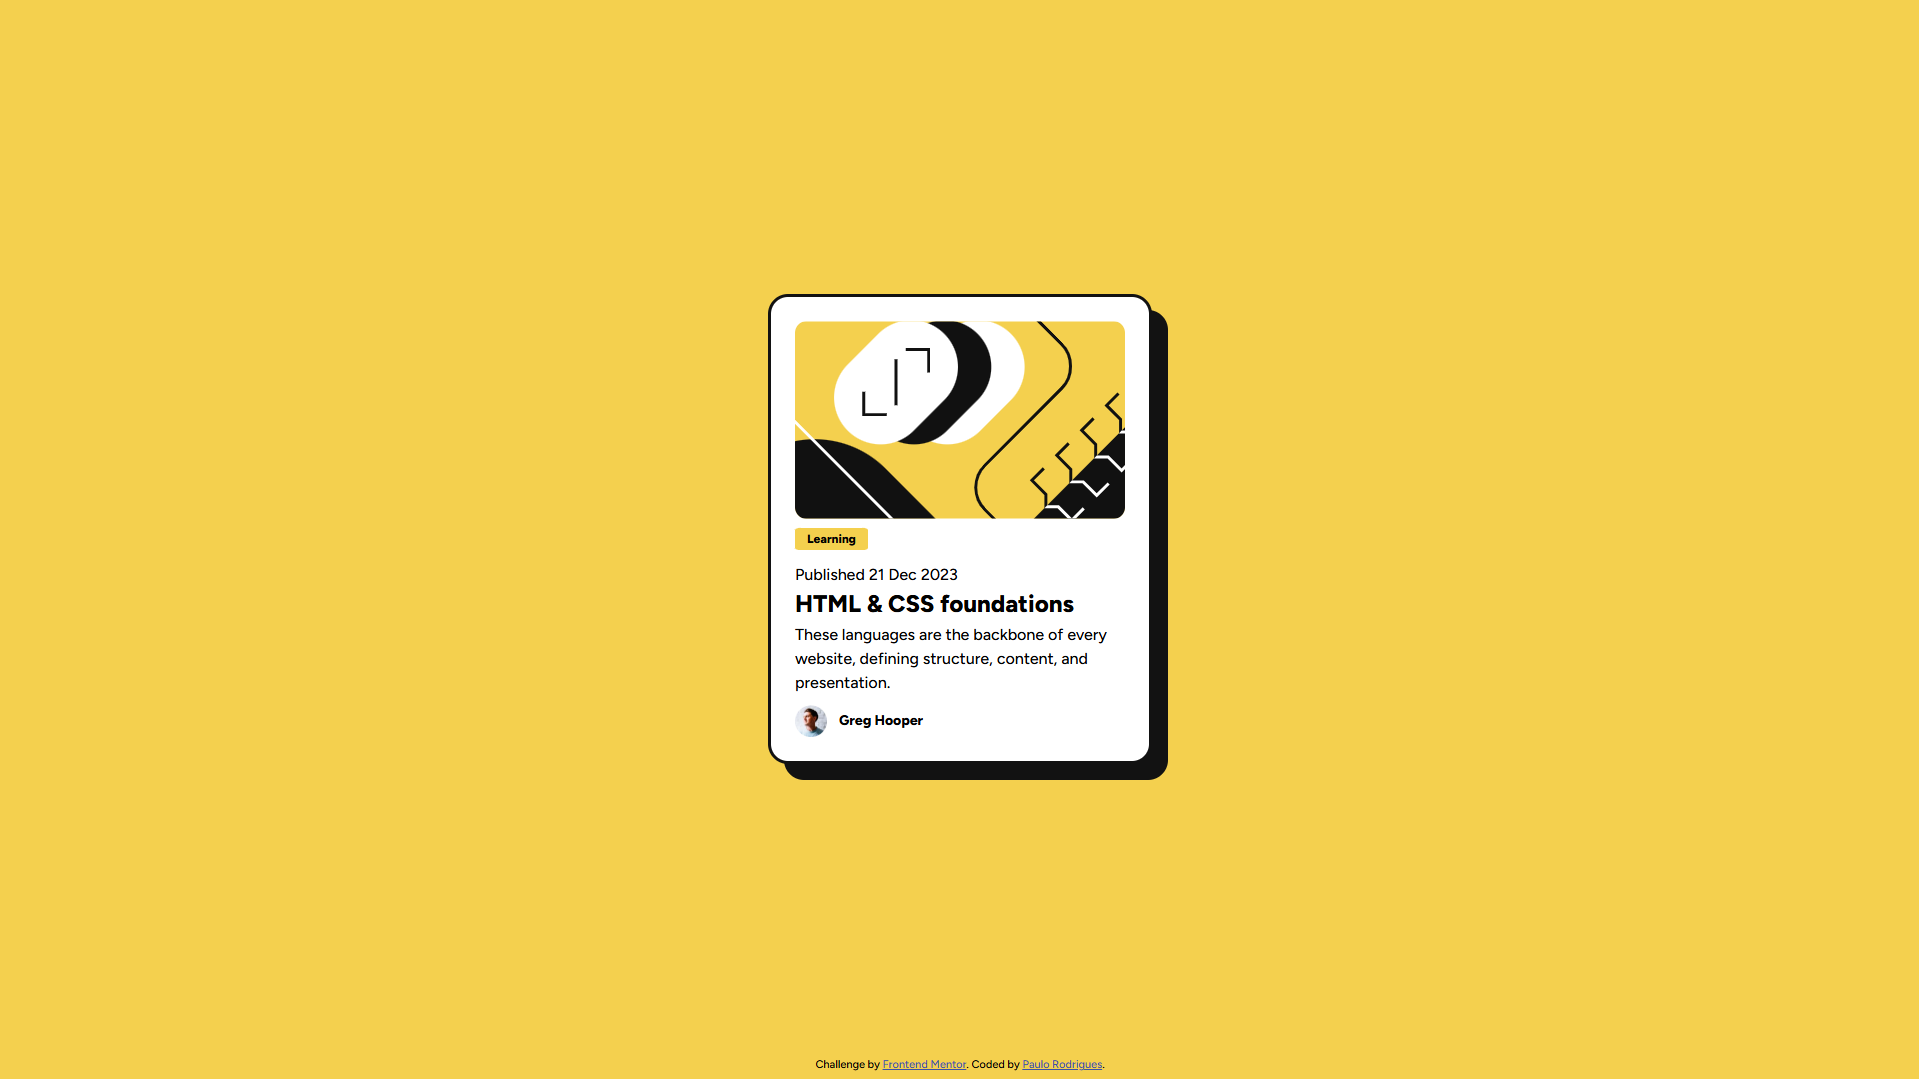
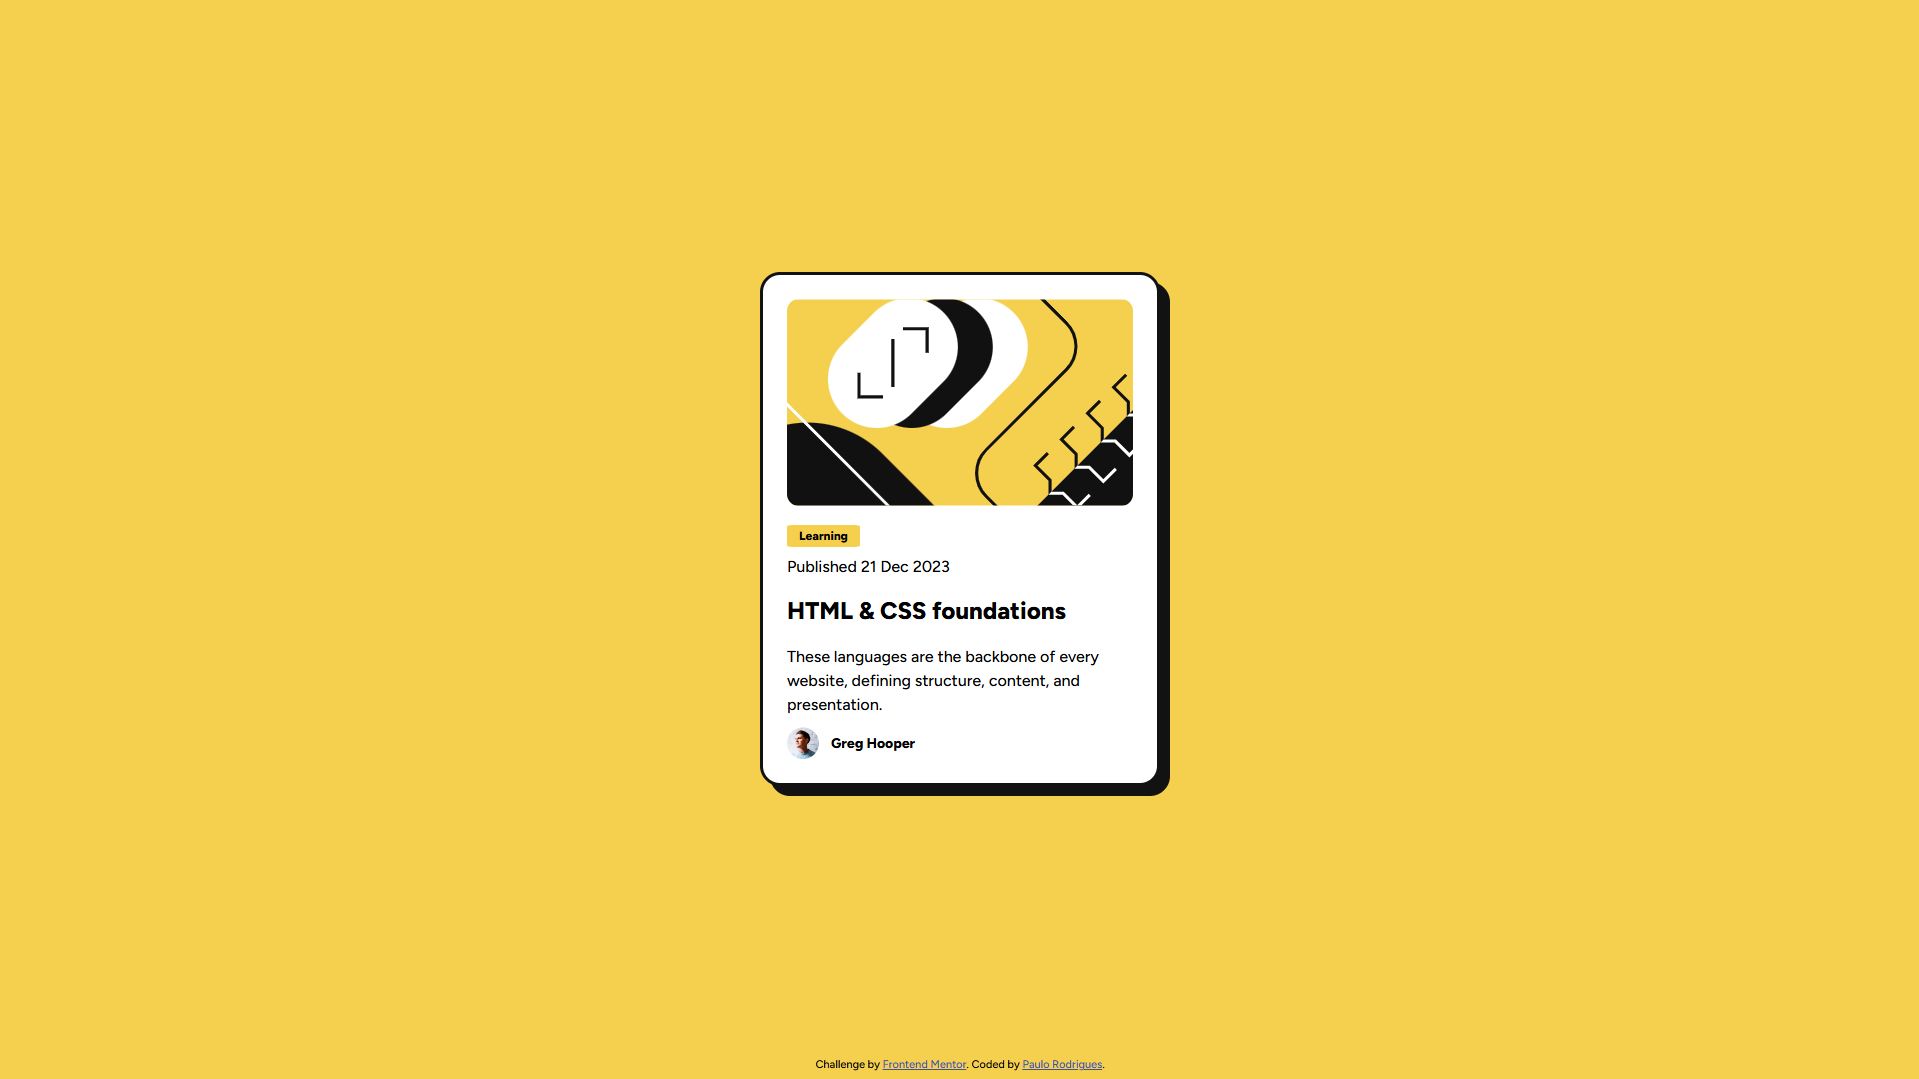
Image Correction

Changed region(s): [[0.3689, 0.2447, 0.6149, 0.7646]]

diff --git a/style.css b/style.css
@@ -49,7 +49,6 @@ main {
     padding: 24px;
 }
 
-
 .publication-description {
     font-size: 0.875rem;
     line-height: 1.5;
@@ -69,13 +68,13 @@ main {
     font-weight: 800;
     font-size: 0.75rem;
     border-radius: 8%;
-    margin-bottom: 15px
+    margin: 10px 0
 }
 
 .publication-title {
     font-size: 1.05rem;
     font-weight: 800;
-    margin: 15px 0;
+    margin: 20px 0;
 }
 
 .publication-title>a {
